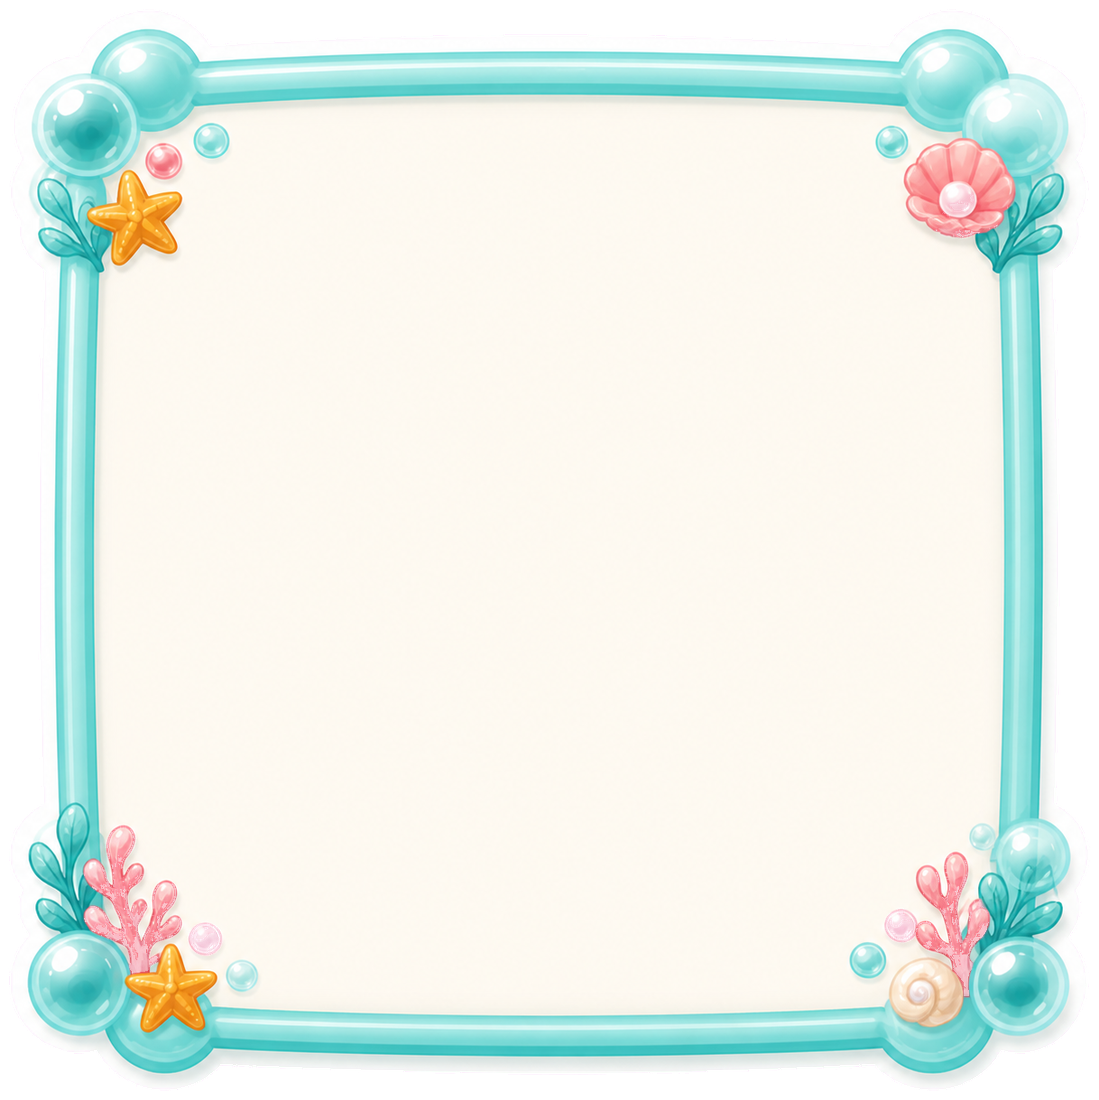
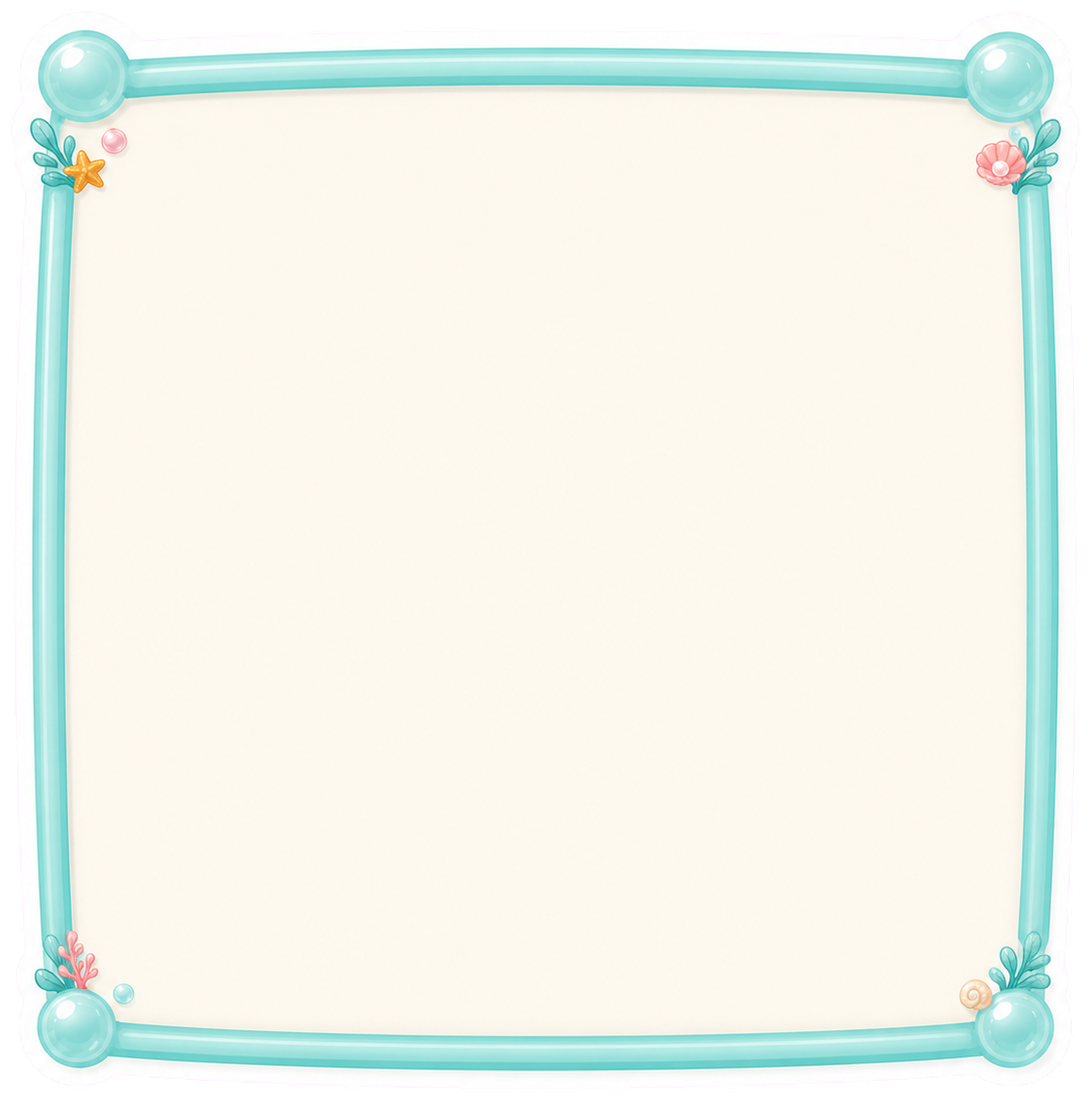
fix: prevent battle frames from overlapping content

Changed region(s): [[0.0, 0.0, 0.9973, 0.9891]]

diff --git a/src/game/BubbleScene.ts b/src/game/BubbleScene.ts
@@ -16,6 +16,7 @@ const HEIGHT = 1280;
 const BOARD_CENTER_Y = 920;
 const BOARD_SIZE = 604;
 const BOARD_FRAME_SIZE = 680;
+const BOARD_PLAY_SIZE = 470;
 const ENEMY_CENTER_Y = 450;
 const ENEMY_RAGE_TINT = 0xff6f7d;
 
@@ -232,10 +233,12 @@ export class BubbleScene extends Phaser.Scene {
     this.clearBoard();
     if (snapshot.rows === 0 || snapshot.cols === 0) return;
 
-    const innerSize = BOARD_SIZE - 70;
+    const innerSize = BOARD_PLAY_SIZE;
     const cellWidth = innerSize / snapshot.cols;
     const cellHeight = innerSize / snapshot.rows;
-    const diameter = Math.min(cellWidth, cellHeight) * (snapshot.cols === 3 ? 0.73 : 0.76);
+    const bubbleSizeArea = BOARD_SIZE - 70;
+    const diameter = Math.min(bubbleSizeArea / snapshot.cols, bubbleSizeArea / snapshot.rows)
+      * (snapshot.cols === 3 ? 0.73 : 0.76);
     const startX = WIDTH / 2 - innerSize / 2 + cellWidth / 2;
     const startY = BOARD_CENTER_Y - innerSize / 2 + cellHeight / 2;
 
@@ -410,7 +413,7 @@ export class BubbleScene extends Phaser.Scene {
     if (snapshot.enemyAttackState !== 'windup') return;
 
     if (snapshot.enemyMechanic === 'sweep' && snapshot.enemyHazardRow !== null) {
-      const innerSize = BOARD_SIZE - 70;
+      const innerSize = BOARD_PLAY_SIZE;
       const rows = Math.max(1, snapshot.rows);
       const cellHeight = innerSize / rows;
       const top = BOARD_CENTER_Y - innerSize / 2 + snapshot.enemyHazardRow * cellHeight;

diff --git a/src/styles.css b/src/styles.css
@@ -631,7 +631,7 @@ input:focus-visible + i {
   gap: 0.52rem;
   width: min(100%, 22rem);
   margin: 0 auto;
-  padding: 0.52rem 2.5rem 0.52rem 1.05rem;
+  padding: 0.52rem 3.1rem 0.52rem 1.05rem;
   background: url('/art/ui/hud-player-frame.png') center / 100% 100% no-repeat;
 }
 
@@ -747,7 +747,7 @@ input:focus-visible + i {
 .enemy-status {
   width: min(100%, 22rem);
   margin: 0.38rem auto 0;
-  padding: 0.45rem 1.3rem 0.52rem;
+  padding: 0.45rem 2.5rem 0.52rem;
   background: url('/art/ui/hud-enemy-frame.png') center / 100% 100% no-repeat;
 }
 
@@ -1376,8 +1376,8 @@ input:focus-visible + i {
 .modal-card {
   width: 100%;
   padding: clamp(1.2rem, 5.2vw, 1.7rem);
-  border: clamp(0.85rem, 3.8vw, 1.15rem) solid transparent;
-  border-image: url('/art/ui/modal-frame.png') 130 fill / 1.75 / 0.22rem stretch;
+  border: clamp(1rem, 4.5vw, 1.25rem) solid transparent;
+  border-image: url('/art/ui/modal-frame.png') 180 fill / 1.7 / 0.18rem stretch;
   border-radius: 0;
   background: transparent;
   box-shadow: none;

diff --git a/public/sw.js b/public/sw.js
@@ -1,4 +1,4 @@
-const CACHE_NAME = 'rhythm-bubbles-v52';
+const CACHE_NAME = 'rhythm-bubbles-v53';
 const CORE_ASSETS = [
   './',
   './manifest.webmanifest',

diff --git a/progress.md b/progress.md
@@ -139,3 +139,6 @@ Original prompt: 重写 Rhythm Bubbles，保持核心玩法不变，全面重做
 - 使用内置 imagegen 生成并接入三张战斗 UI 素材：玩家 HUD 使用带圆形头像接口的薄荷海洋框，怪物 HUD 使用超宽薄型珊瑚粉/蓝紫框，固定 4×4 盘面使用奶油白底、薄荷凝胶边及海星/珊瑚/贝壳/珍珠泡泡角饰。HUD 仍由 DOM 负责实时数据，盘面素材位于 Phaser 泡泡下方，泡泡坐标与点击判定未改；Service Worker 准备更新为 `v52`。
 - 26 项逻辑测试、生产构建、依赖审计、`git diff --check` 和本地 Chromium 完整五战流程通过；已目视检查 390×844、320×568 的开局画面及怪物上方反制提示，三张素材无拉伸变形、无遮挡，控制台无错误。同步修正了主页按钮上移后遗留的旧间距断言，并将反制提示上移约 1vh 以保持在怪物上方。
 - 战斗 UI 素材版本已提交并推送，以 Service Worker `v52` 部署到 `http://64.83.41.39:18088`。`dist/` 与 `/var/www/rhythm-bubbles/` 完全一致，Nginx 配置校验和重载通过，三张新素材均返回 HTTP 200；公网 390×844 Chromium 开局烟测确认玩家/怪物 HUD 引用新素材、盘面仍为 4×4，控制台无错误，线上截图已目视检查。
+- Original prompt: 修视觉问题，弹框的ui被挤扁了，然后游戏界面的hud和泡泡区，边框和主体内容有重叠。都截图看看吧，修复下。
+- 通过 390×844 与 320×568 截图复现并修复三类视觉问题：弹框九宫格切片从 `130` 提升为 `180` 以避开角饰拉伸区；玩家/怪物 HUD 增加右侧内容安全边距；4×4 泡泡的可玩中心收紧到 `470`，同时保持泡泡尺寸和点击判定不变，盘面角饰已改为小型外围装饰。新增设置、图鉴、暂停、战斗和桌面截图，目视确认无压扁、无重叠。
+- 26 项逻辑测试、生产构建、依赖审计、`git diff --check`、本地 Chromium 五战流程通过；期间修正了两个旧 E2E 几何断言（主页上移间距、反制提示动画时序），没有改动玩法规则。
